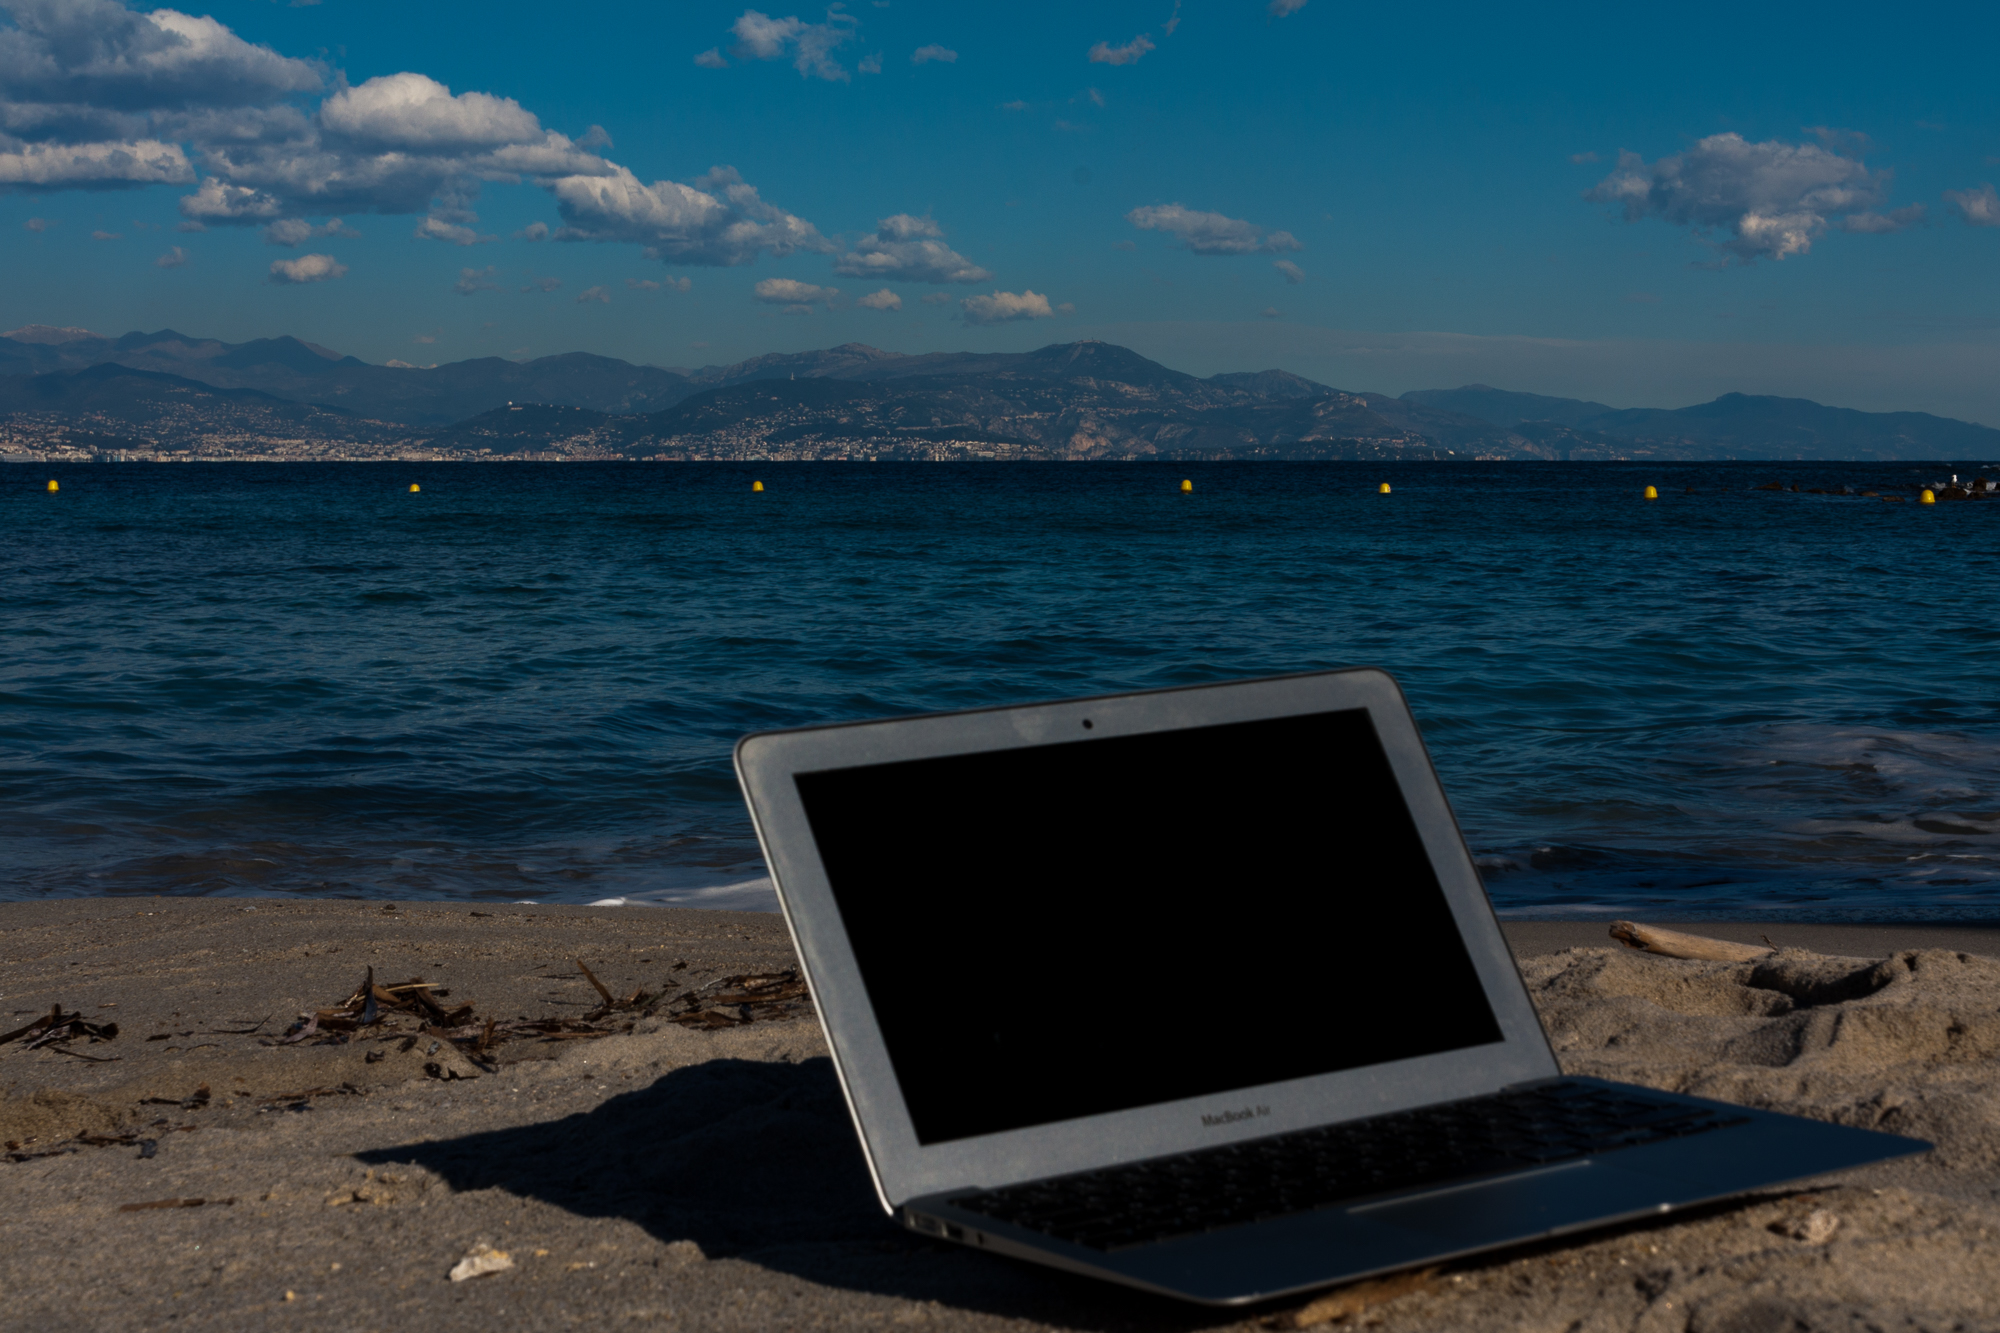
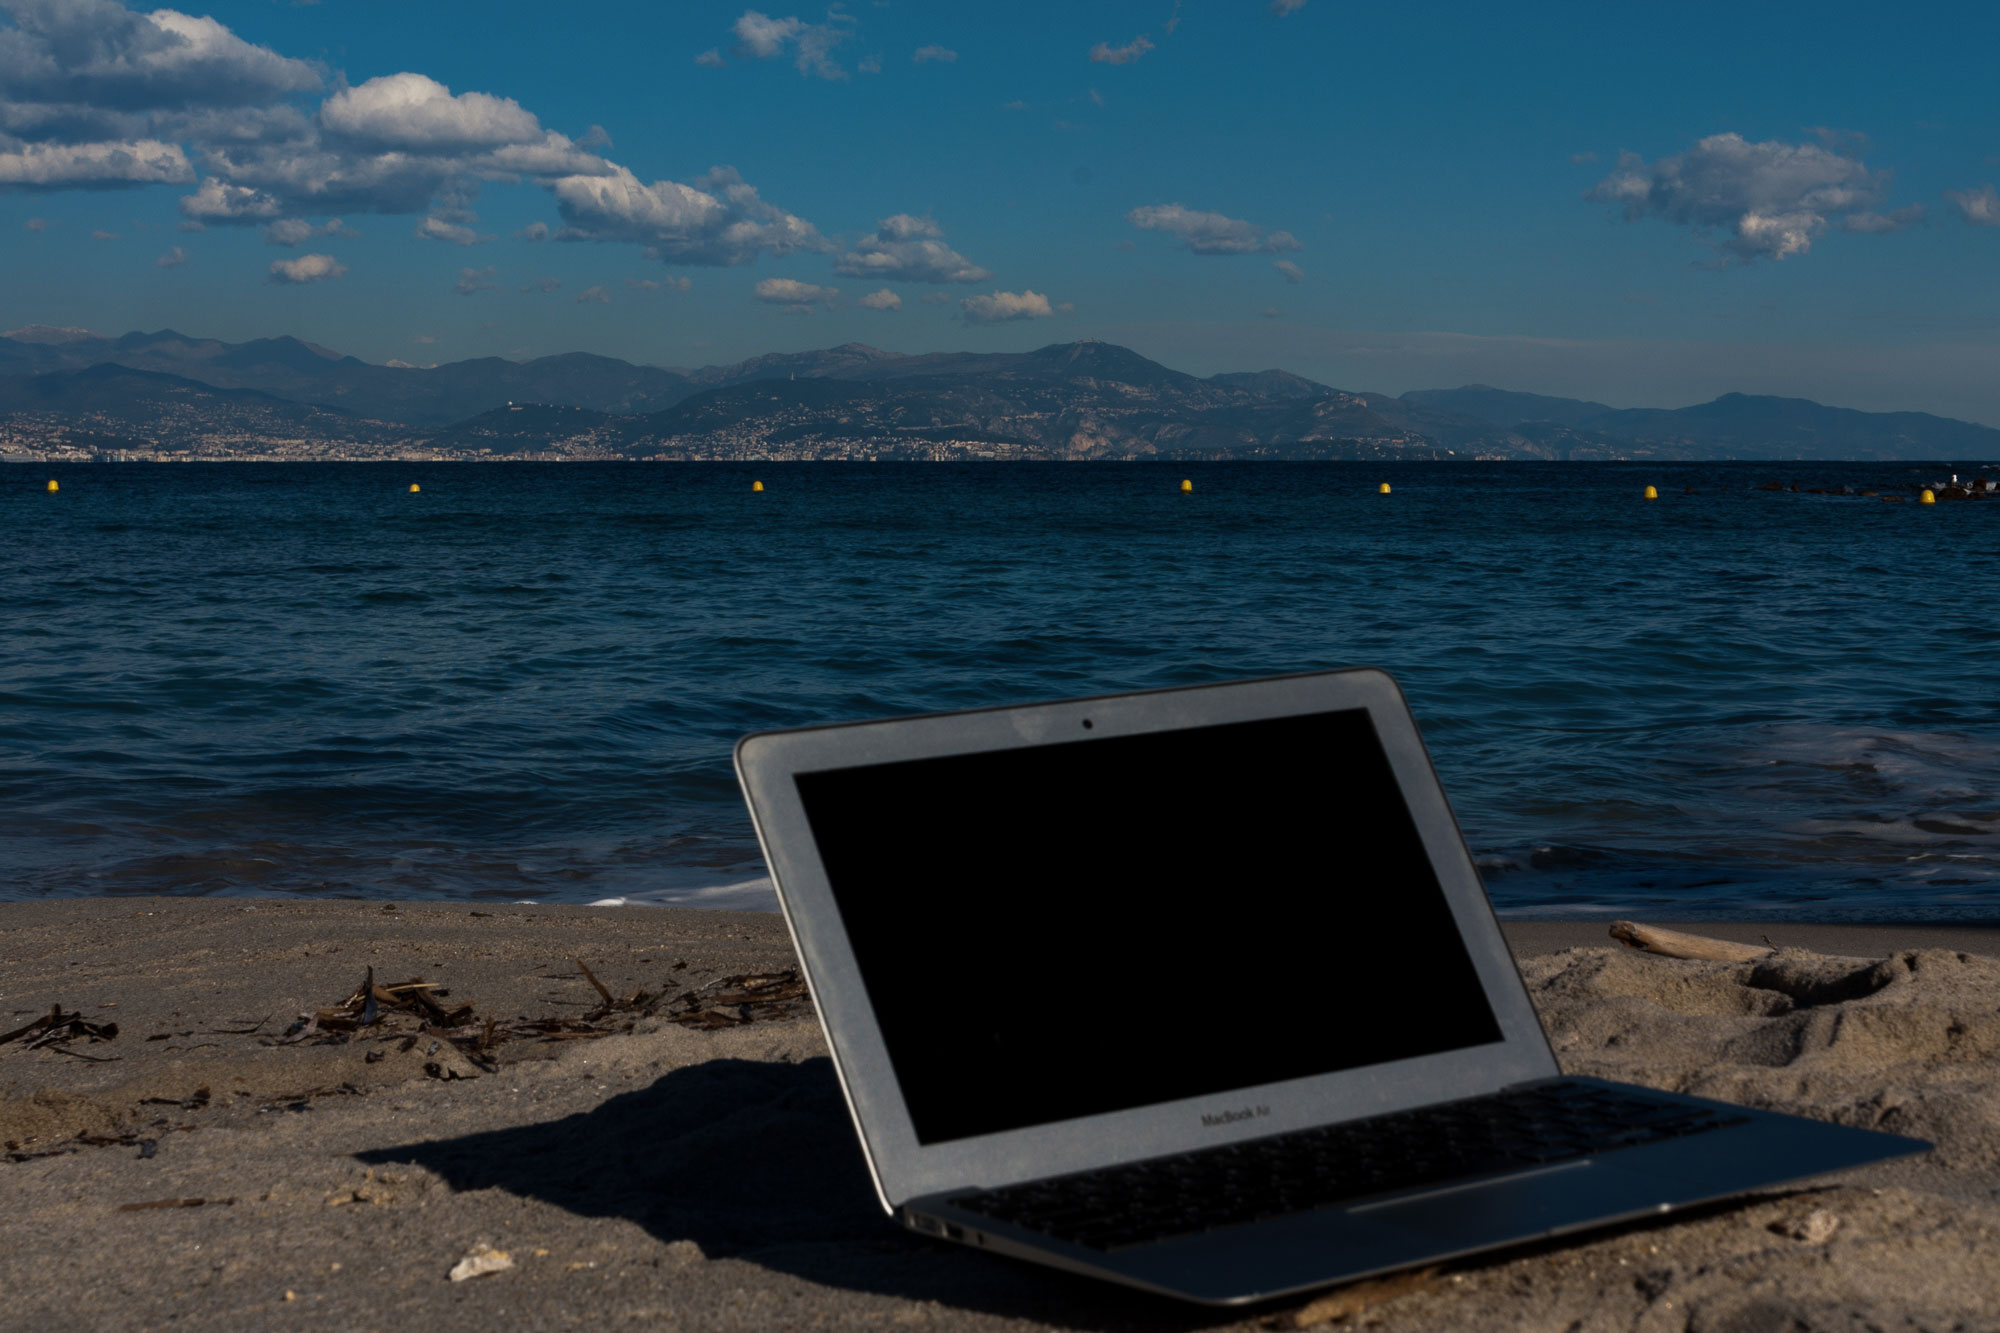
Reduce images size and add title on links

Changed region(s): [[0.093, 0.0, 0.713, 0.0923], [0.744, 0.0615, 0.806, 0.0923]]

diff --git a/_includes/about.html b/_includes/about.html
@@ -2,39 +2,49 @@
     <div class="container">
         <div class="row">
             <div class="col-lg-8 col-lg-offset-2 text-center">
-                <h2 class="section-heading">Who We Are</h2>
-                <hr class="light">
+              <h2 class="section-heading">Who We Are</h2>
+              <hr class="light">
 
-                <p class="text-faded">We are two expert developers. We design, build, and grow products for Android and the Web.</p>
+              <p class="text-faded">We are two expert developers. We design, build, and grow products for Android and the Web.</p>
             </div>
             <div class="col-lg-8 col-lg-offset-2 text-center">
               <h3 class="section-heading">Meet the team</h3>
             </div>
             <div class="col-lg-4 col-lg-offset-2 text-center">
-                <a href="http://www.machada.io" class="social-link">
-                    <img src="/img/macha.jpeg" alt="Macha Da Costa" class="person wow bounceIn">
-                    <p>{{ site.usernames.macha }}</p></a>
-                <p class="description">Macha loves the Mobile, in particular Android, and <abbr title="App Store Optimization">ASO</abbr>. She's very passionate and enjoys working on complete application from conception to publication. When not thinking about mobile, Macha likes to run, to play beach volleyball and, to freedive.</p>
-
-                  <p> <a href="https://twitter.com/{{ site.twitter_usernames.macha }}" class="social-link">
-                    <i class="fa fa-twitter fa-2x wow bounceIn" data-wow-delay=".1s"></i></a>
-                 <a href="mailto:{{ site.emails.macha }}" class="social-link">
-                    <i class="fa fa-envelope-o fa-2x wow bounceIn" data-wow-delay=".2s"></i></a>
-                <a href="https://github.com/{{ site.github_usernames.macha }}" class="social-link">
-                    <i class="fa fa-github fa-2x wow bounceIn" data-wow-delay=".3s"></i></a></p>
+              <a href="http://www.machada.io" class="social-link">
+                <img src="/img/macha.jpg" alt="Macha Da Costa" class="person wow bounceIn">
+                <p>{{ site.usernames.macha }}</p>
+              </a>
+              <p class="description">Macha loves the Mobile, in particular Android, and <abbr title="App Store Optimization">ASO</abbr>. She's very passionate and enjoys working on complete application from conception to publication. When not thinking about mobile, Macha likes to run, to play beach volleyball and, to freedive.</p>
+              <p>
+                <a href="https://twitter.com/{{ site.twitter_usernames.macha }}" class="social-link" title="@{{ site.twitter_usernames.macha }}">
+                  <i class="fa fa-twitter fa-2x wow bounceIn" data-wow-delay=".1s"></i>
+                </a>
+                <a href="mailto:{{ site.emails.macha }}" class="social-link" title="{{ site.emails.macha }}">
+                  <i class="fa fa-envelope-o fa-2x wow bounceIn" data-wow-delay=".2s"></i>
+                </a>
+                <a href="https://github.com/{{ site.github_usernames.macha }}" class="social-link" title="{{ site.github_usernames.macha }}">
+                  <i class="fa fa-github fa-2x wow bounceIn" data-wow-delay=".3s"></i>
+                </a>
+              </p>
             </div>
             <div class="col-lg-4 col-lg-offset-0 text-center">
-                <a href="https://www.rymai.me" class="social-link">
-                    <img src="/img/remy.png" alt="Rémy Coutable Photo" class="person wow bounceIn">
-                    <p>{{ site.usernames.remy }}</p></a>
-                    <p class="description">Rémy loves the Web, the open-source, Git and Ruby. He's very versatile and enjoys working on complete features from back to front. When not thinking about code, Rémy likes to read about philosophy, politics or ecology, to play volley-ball and, to freedive.</p>
-
-                      <p> <a href="https://twitter.com/{{ site.twitter_usernames.remy }}" class="social-link">
-                    <i class="fa fa-twitter fa-2x wow bounceIn" data-wow-delay=".1s"></i></a>
-                 <a href="mailto:{{ site.emails.remy }}" class="social-link">
-                    <i class="fa fa-envelope-o fa-2x wow bounceIn" data-wow-delay=".2s"></i></a>
-                <a href="https://github.com/{{ site.github_usernames.remy }}" class="social-link">
-                    <i class="fa fa-github fa-2x wow bounceIn" data-wow-delay=".3s"></i></a></p>
+              <a href="https://www.rymai.me" class="social-link">
+                <img src="/img/remy.jpg" alt="Rémy Coutable Photo" class="person wow bounceIn">
+                <p>{{ site.usernames.remy }}</p>
+              </a>
+              <p class="description">Rémy loves the Web, the open-source, Git and Ruby. He's very versatile and enjoys working on complete features from back to front. When not thinking about code, Rémy likes to read about philosophy, politics or ecology, to play volley-ball and, to freedive.</p>
+              <p>
+                <a href="https://twitter.com/{{ site.twitter_usernames.remy }}" class="social-link" title="@{{ site.twitter_usernames.remy }}">
+                  <i class="fa fa-twitter fa-2x wow bounceIn" data-wow-delay=".1s"></i>
+                </a>
+                <a href="mailto:{{ site.emails.remy }}" class="social-link" title="{{ site.emails.remy }}">
+                  <i class="fa fa-envelope-o fa-2x wow bounceIn" data-wow-delay=".2s"></i>
+                </a>
+                <a href="https://github.com/{{ site.github_usernames.remy }}" class="social-link" title="{{ site.github_usernames.remy }}">
+                  <i class="fa fa-github fa-2x wow bounceIn" data-wow-delay=".3s"></i>
+                </a>
+              </p>
             </div>
             <div class="col-lg-8 col-lg-offset-2 text-center">
               <a href="#contact" class="btn btn-default btn-xl">Contact Us!</a>

diff --git a/_includes/contact.html b/_includes/contact.html
@@ -7,21 +7,18 @@
             </div>
 
         <div class="col-lg-2 col-lg-offset-2 text-center">
-            <a href="https://twitter.com/{{ site.twitter_usernames.company }}">
+            <a href="https://twitter.com/{{ site.twitter_usernames.company }}" title="@{{ site.twitter_usernames.company }}">
                 <i class="fa fa-twitter fa-3x wow bounceIn" data-wow-delay=".1s"></i>
-                <p>{{ site.twitter_usernames.company }}</p>
             </a>
         </div>
         <div class="col-lg-2 col-lg-offset-1 text-center">
-            <a href="mailto:{{ site.emails.company }}">
+            <a href="mailto:{{ site.emails.company }}" title="{{ site.emails.company }}">
             <i class="fa fa-envelope-o fa-3x wow bounceIn" data-wow-delay=".2s"></i>
-                <p>{{ site.emails.company }}</p>
             </a>
         </div>
         <div class="col-lg-2 col-lg-offset-1 text-center">
-            <a href="https://github.com/{{ site.github_usernames.copany }}">
+            <a href="https://github.com/{{ site.github_usernames.company }}" title="{{ site.github_usernames.company }}">
             <i class="fa fa-github fa-3x wow bounceIn" data-wow-delay=".3s"></i>
-                <p>{{ site.github_usernames.company }}</p>
             </a>
         </div>
 
